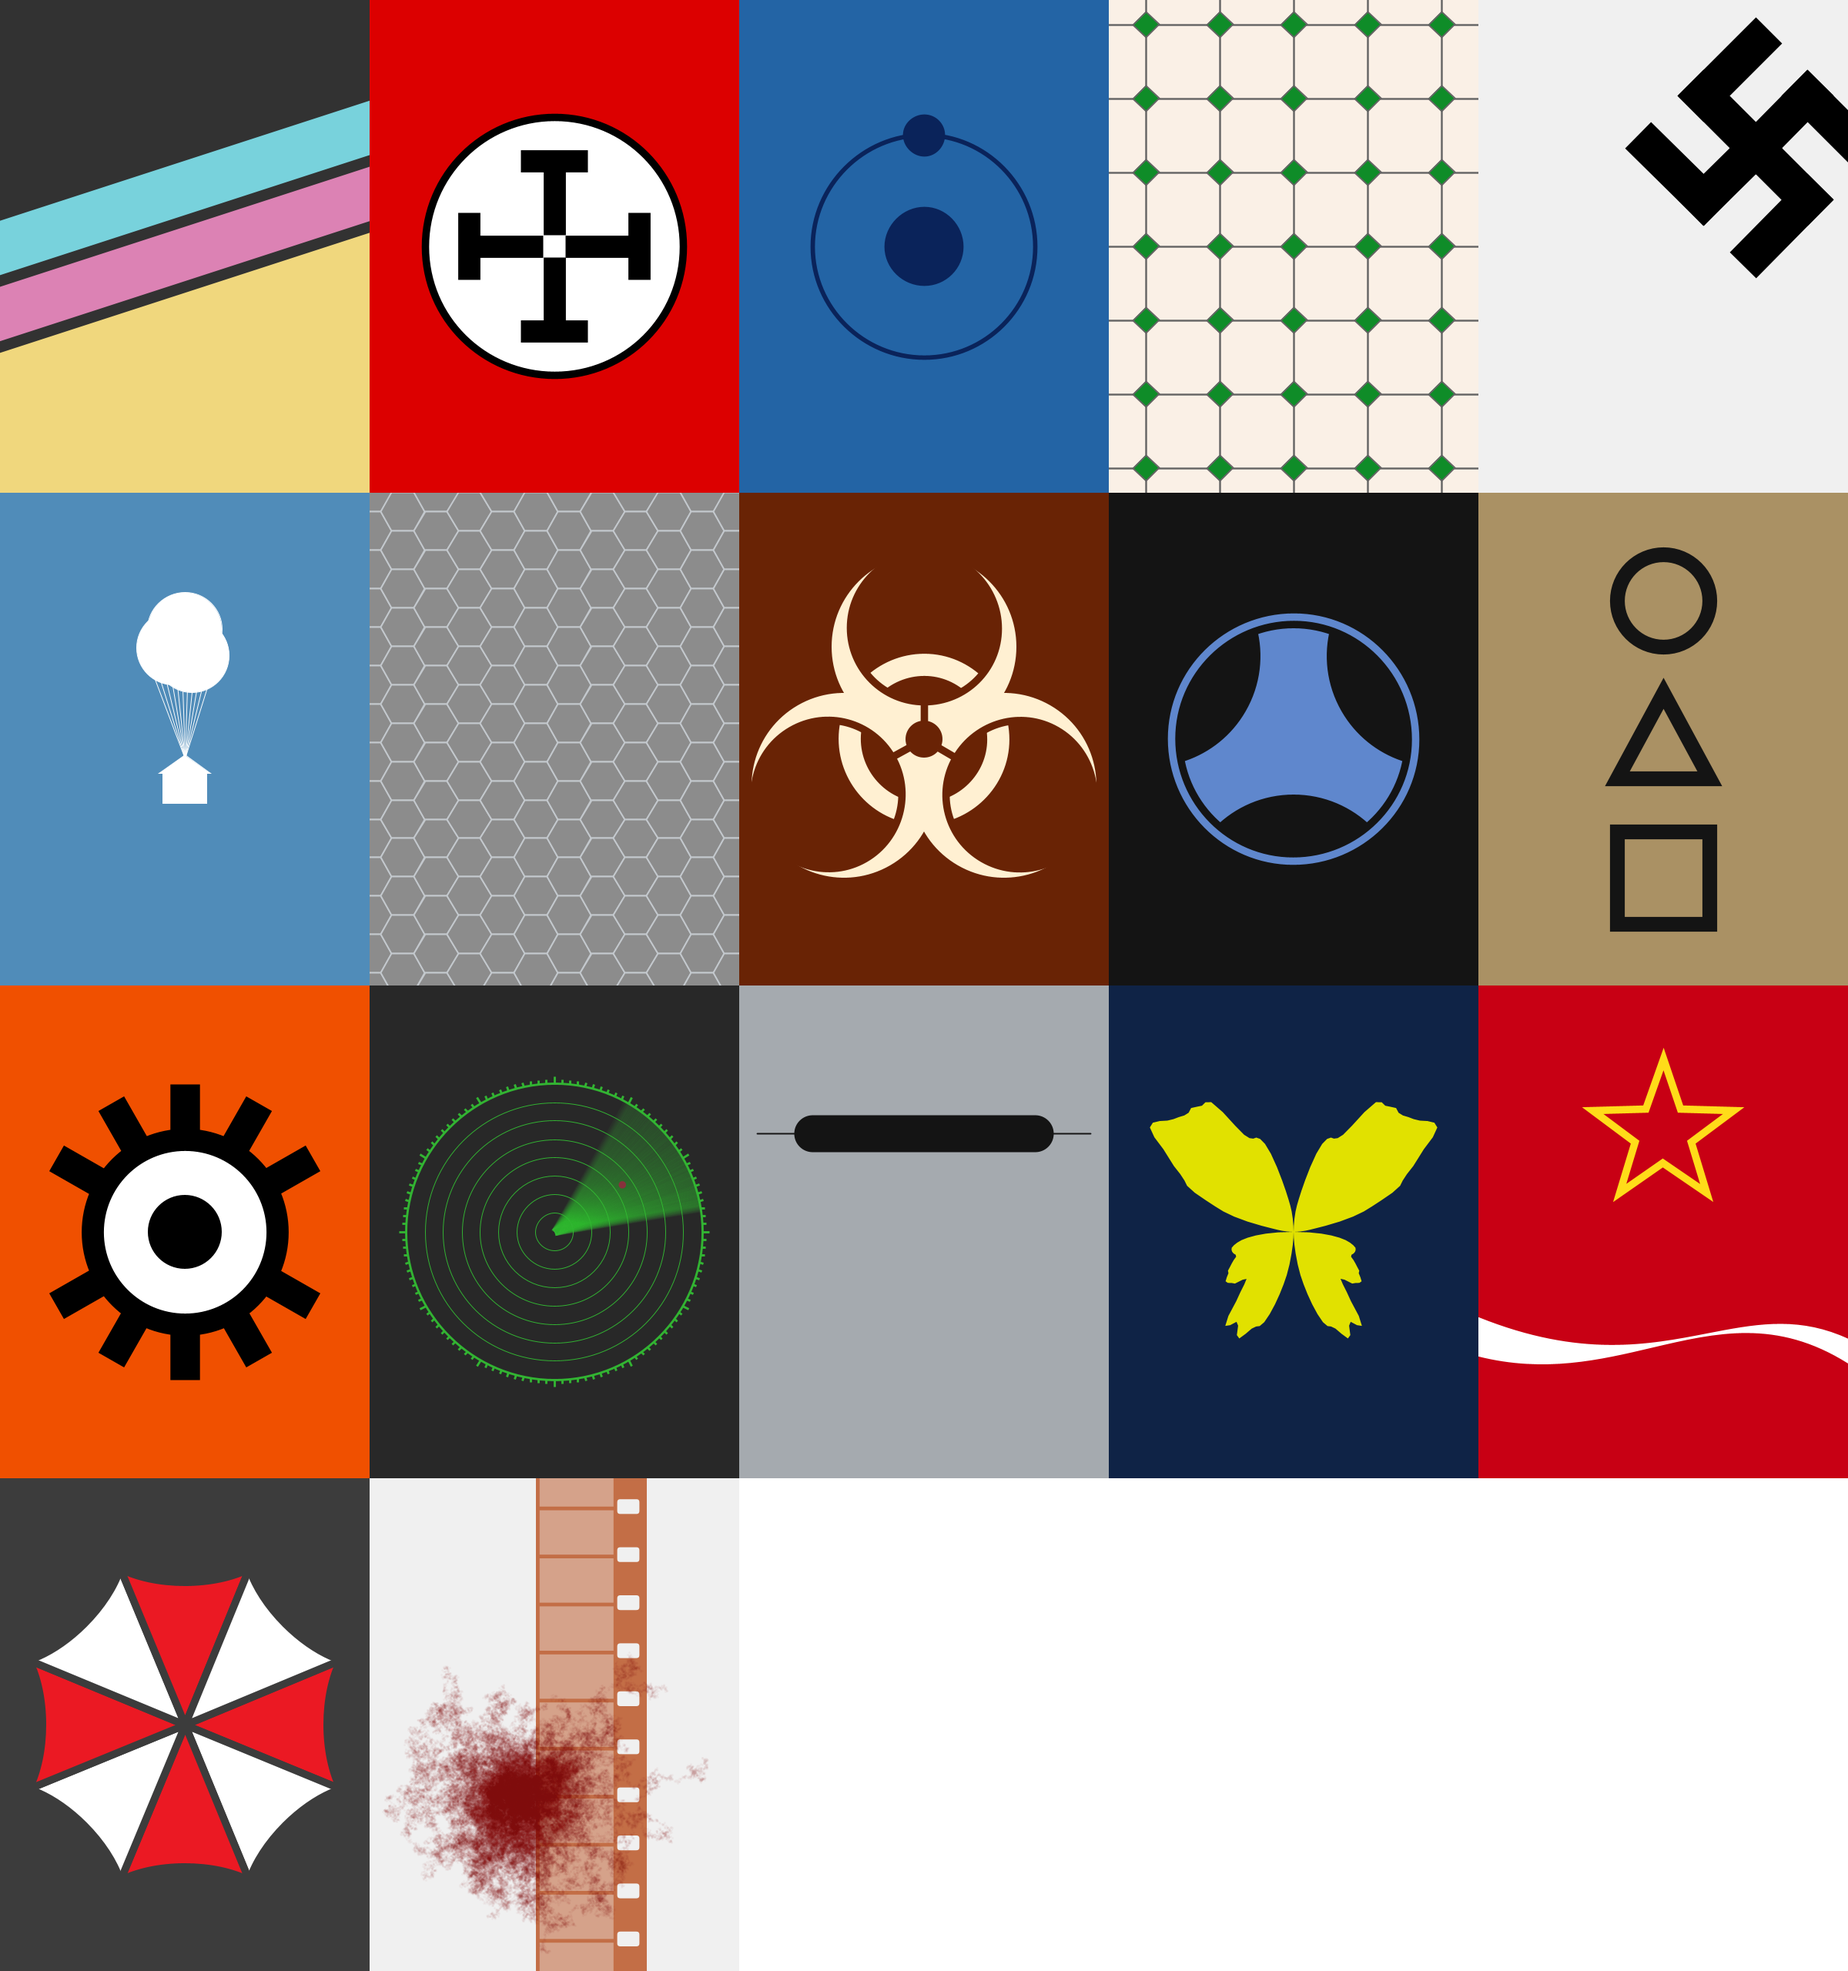
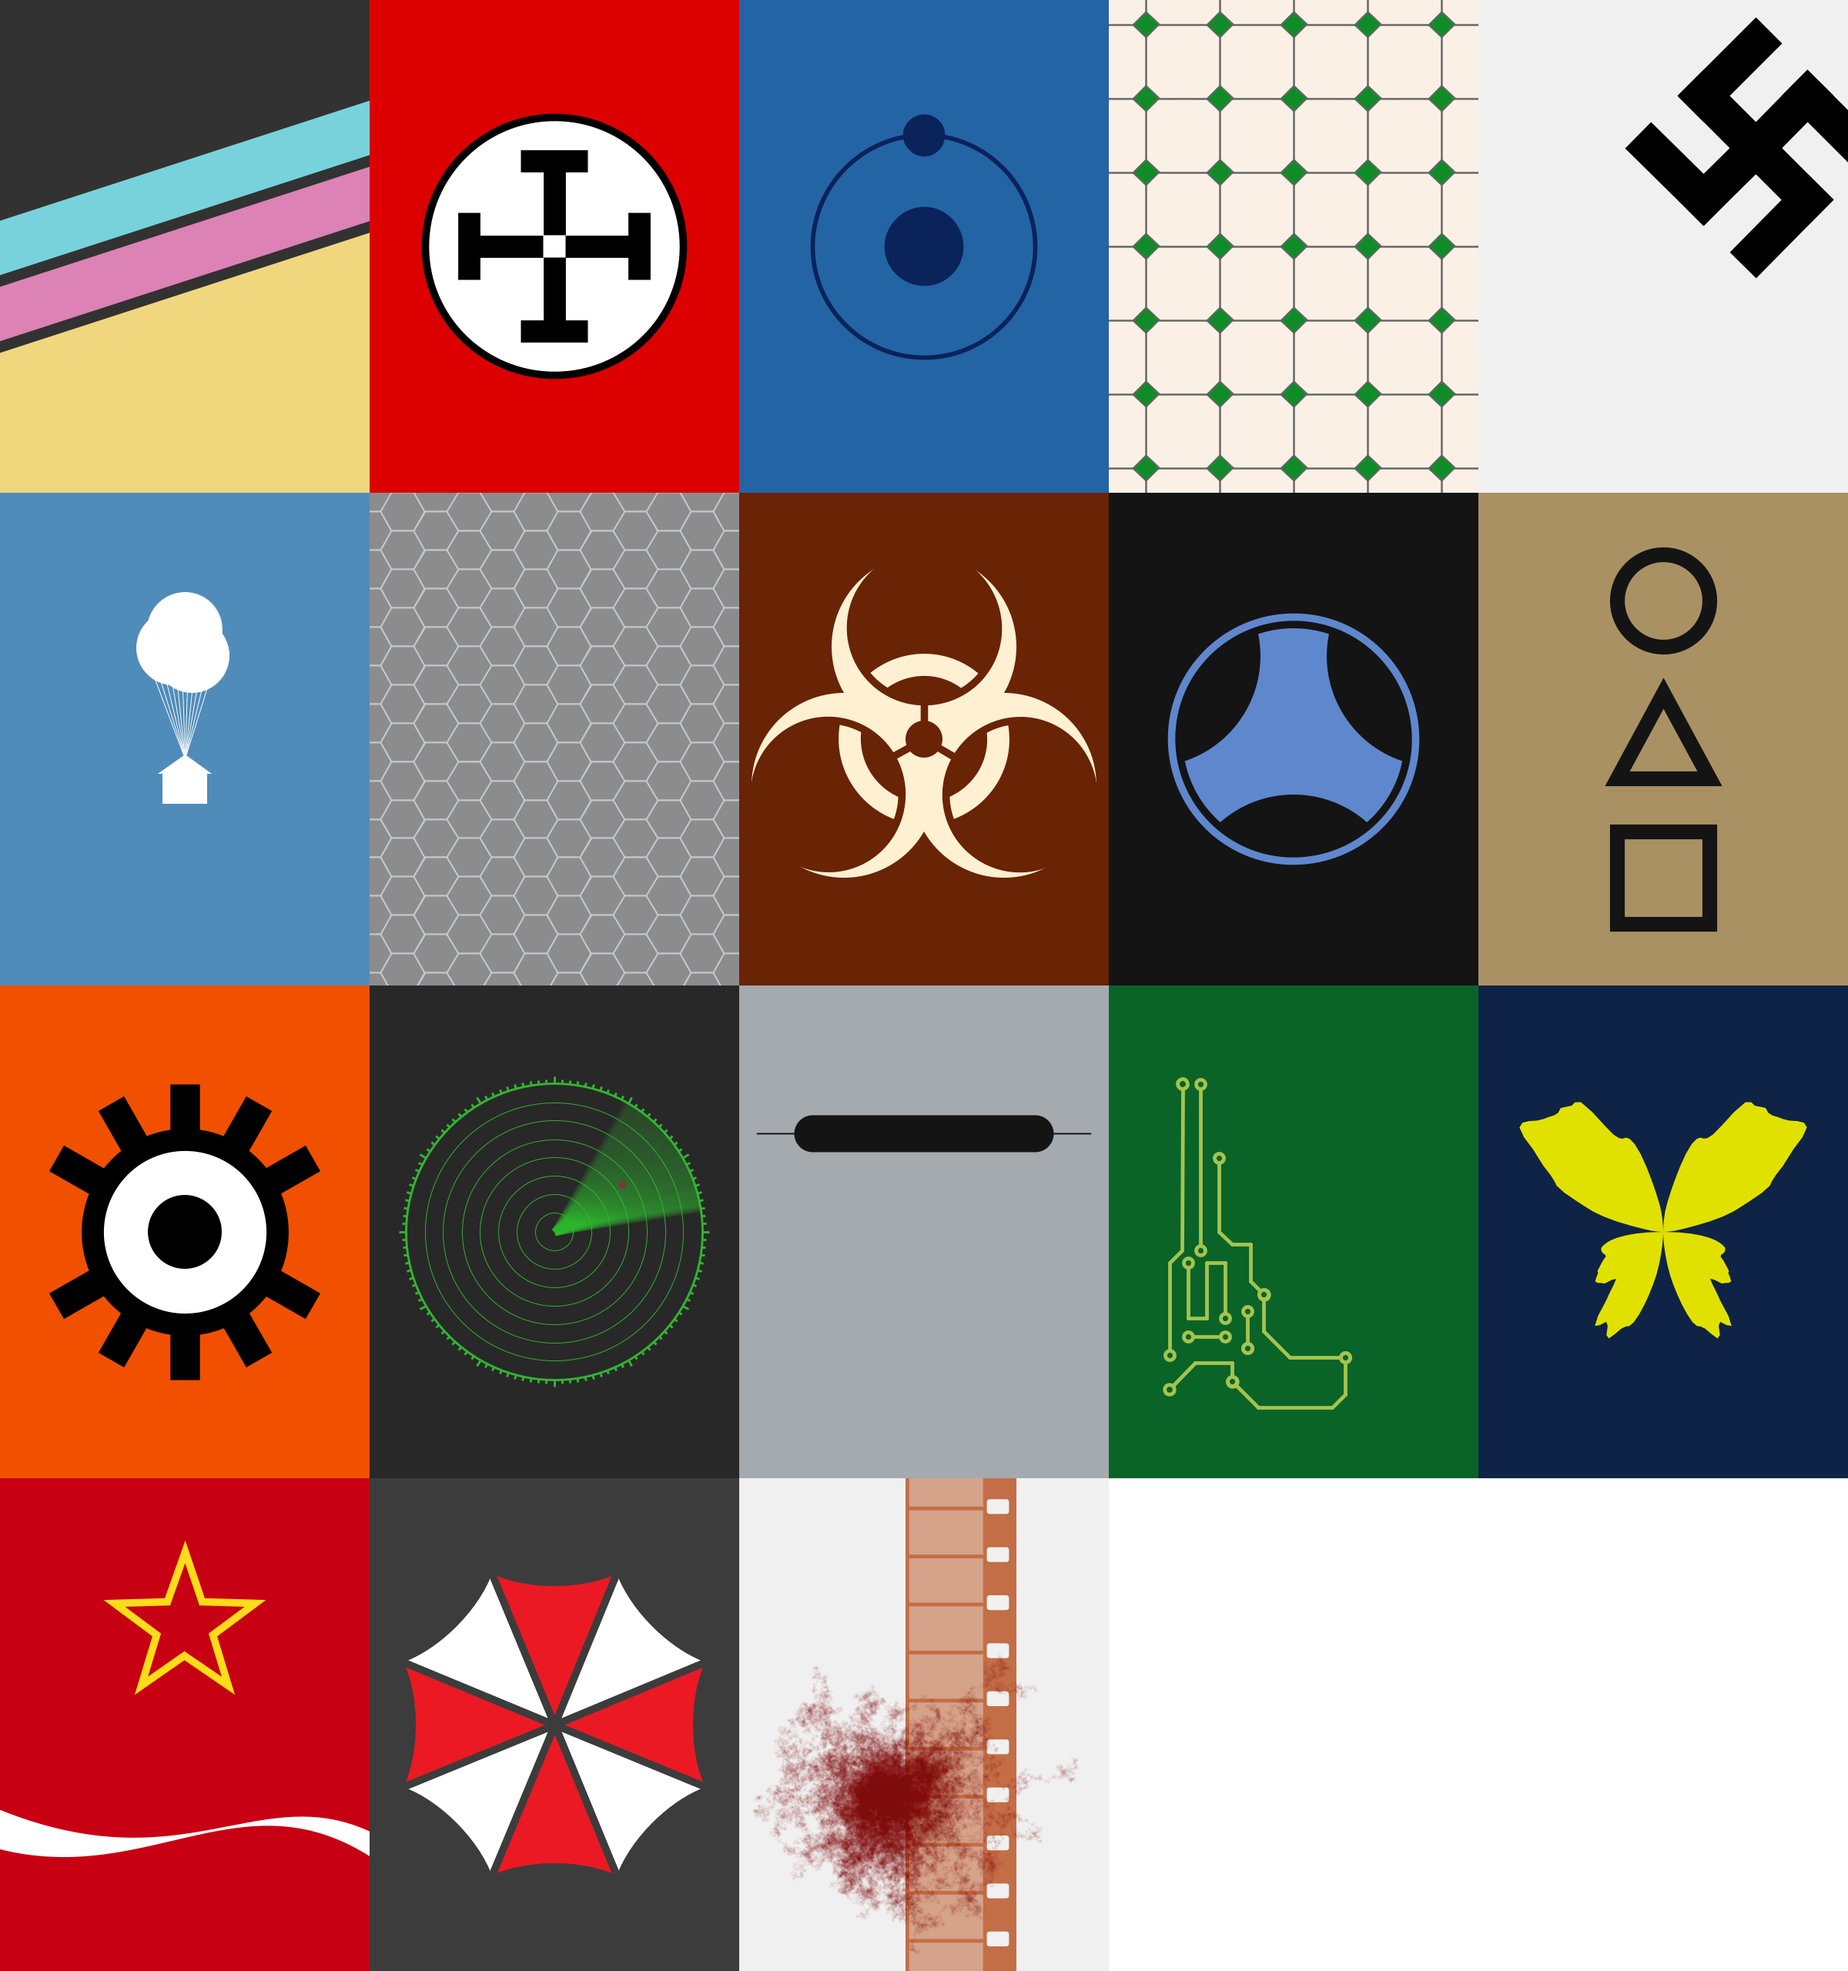
pages updated

Changed region(s): [[0.0, 0.75, 0.5625, 1.0], [0.5938, 0.5, 1.0, 0.75]]

diff --git a/examples/volume6/westworld/README.md b/examples/volume6/westworld/README.md
@@ -1,0 +1,126 @@
+---
+permalink: /examples/volume6/westworld/
+title: Westworld (1973) | Minimalist Movie Poster
+description: Minimalist Movie Poster generated using Java and Processing.
+---
+
+# Westworld (1973)
+
+Action, Sci-Fi, Thriller
+
+## Plot
+A robot malfunction creates havoc and terror for unsuspecting vacationers at a futuristic, adult-themed amusement park.
+
+[details](https://www.imdb.com/title/tt0070909/)
+
+## Movie Poster
+<img src="westworld.png"  width="360px" title="Westworld">
+
+
+## The code
+```java
+// Manuale di Programmazione Cinematografica
+// Daniele Olmisani, 2022
+
+// Westworld (1973)
+
+
+final color PAPER = color(10, 100, 40);
+final color INK = color(165, 195, 80);
+
+final float dL = 0.05;
+final float dA = QUARTER_PI;
+
+final String P = "d2r9frfl5fu 2lflfl14f4r d9fu rfl d3f2lf2l3f2rf2r3fu" + 
+                 "f2r d2fu 2r9frfrf2r d4flflf2r2flfu  r d2fl2fl3fu 2r" +
+                 "d2frfr4fr2fu r df2l2fl2fu 4l6f3r d2fu";
+
+
+void setup() {
+  size(480, 640);
+  noLoop();
+}
+
+
+void draw() {
+  
+  final float S = min(width, height);
+  final float U = 0.002;
+  
+  translate(0.2*width, 0.2*height);
+  scale(S);
+  
+  background(PAPER);
+  
+  fill(PAPER);
+  stroke(INK);
+  strokeWeight(5*U);
+  
+  drawTurtle(P, dL, dA);
+  
+  save("westworld.png");
+}
+
+
+void drawTurtle(String path, float dL, float dA) {
+  
+  int k = 0;
+  boolean penDown = false;
+  boolean firstStep = true;
+  
+  for (int i=0; i<path.length(); i++) {
+    
+    char c = path.charAt(i);
+    
+    switch (c) {
+      
+      case 'u':
+        ellipse(0, 0, 0.5*dL, 0.5*dL);
+        penDown = false;
+        break;
+      case 'd':
+        penDown = true;
+        firstStep = true;
+        break;
+      case 'f':
+        if (k==0) k=1;
+        if (penDown) {
+          line(0, 0, k*dL, 0);
+          if (firstStep) {
+            ellipse(0, 0, 0.5*dL, 0.5*dL);
+            firstStep = false;
+          }
+        }
+        translate(k*dL, 0);
+        k=0;
+        break;
+      case 'r':
+        if (k==0) k=1;
+        rotate(k*dA);
+        k=0;
+        break;
+      case 'l':
+        if (k==0) k=1;
+        rotate(-k*dA);
+        k=0;
+        break;
+      case '1': case '2': 
+      case '3': case '4':
+      case '5': case '6':
+      case '7': case '8':
+      case '9': case '0':
+        k = 10*k + c-'0'; 
+        break;
+      default:
+        break;
+    }
+  }
+  
+  ellipse(0, 0, 0.5*dL, 0.5*dL);
+}
+
+```
+
+> MdPC - a collection of minimalist movie posters
+> by Daniele Olmisani
+> Please, see [LICENSE](../../../LICENSE) file

diff --git a/README.md b/README.md
@@ -490,6 +490,10 @@ Use PDE `File -> Examples... -> Add examples` or follow these links to manually 
 <a href="examples/volume6/watchmen/">
     <img src="examples/volume6/watchmen/watchmen.png" width="120px" title="Watchmen"/>
 </a>
+<a href="examples/volume6/westworld/">
+    <img src="examples/volume6/westworld/westworld.png" width="120px" title="Westworld"/>
+</a>
 <a href="examples/volume6/x8MM/">
     <img src="examples/volume6/x8MM/8mm.png" width="120px" title="Eight Millimeter"/>
 </a>
+<br class="index-separator"/>
